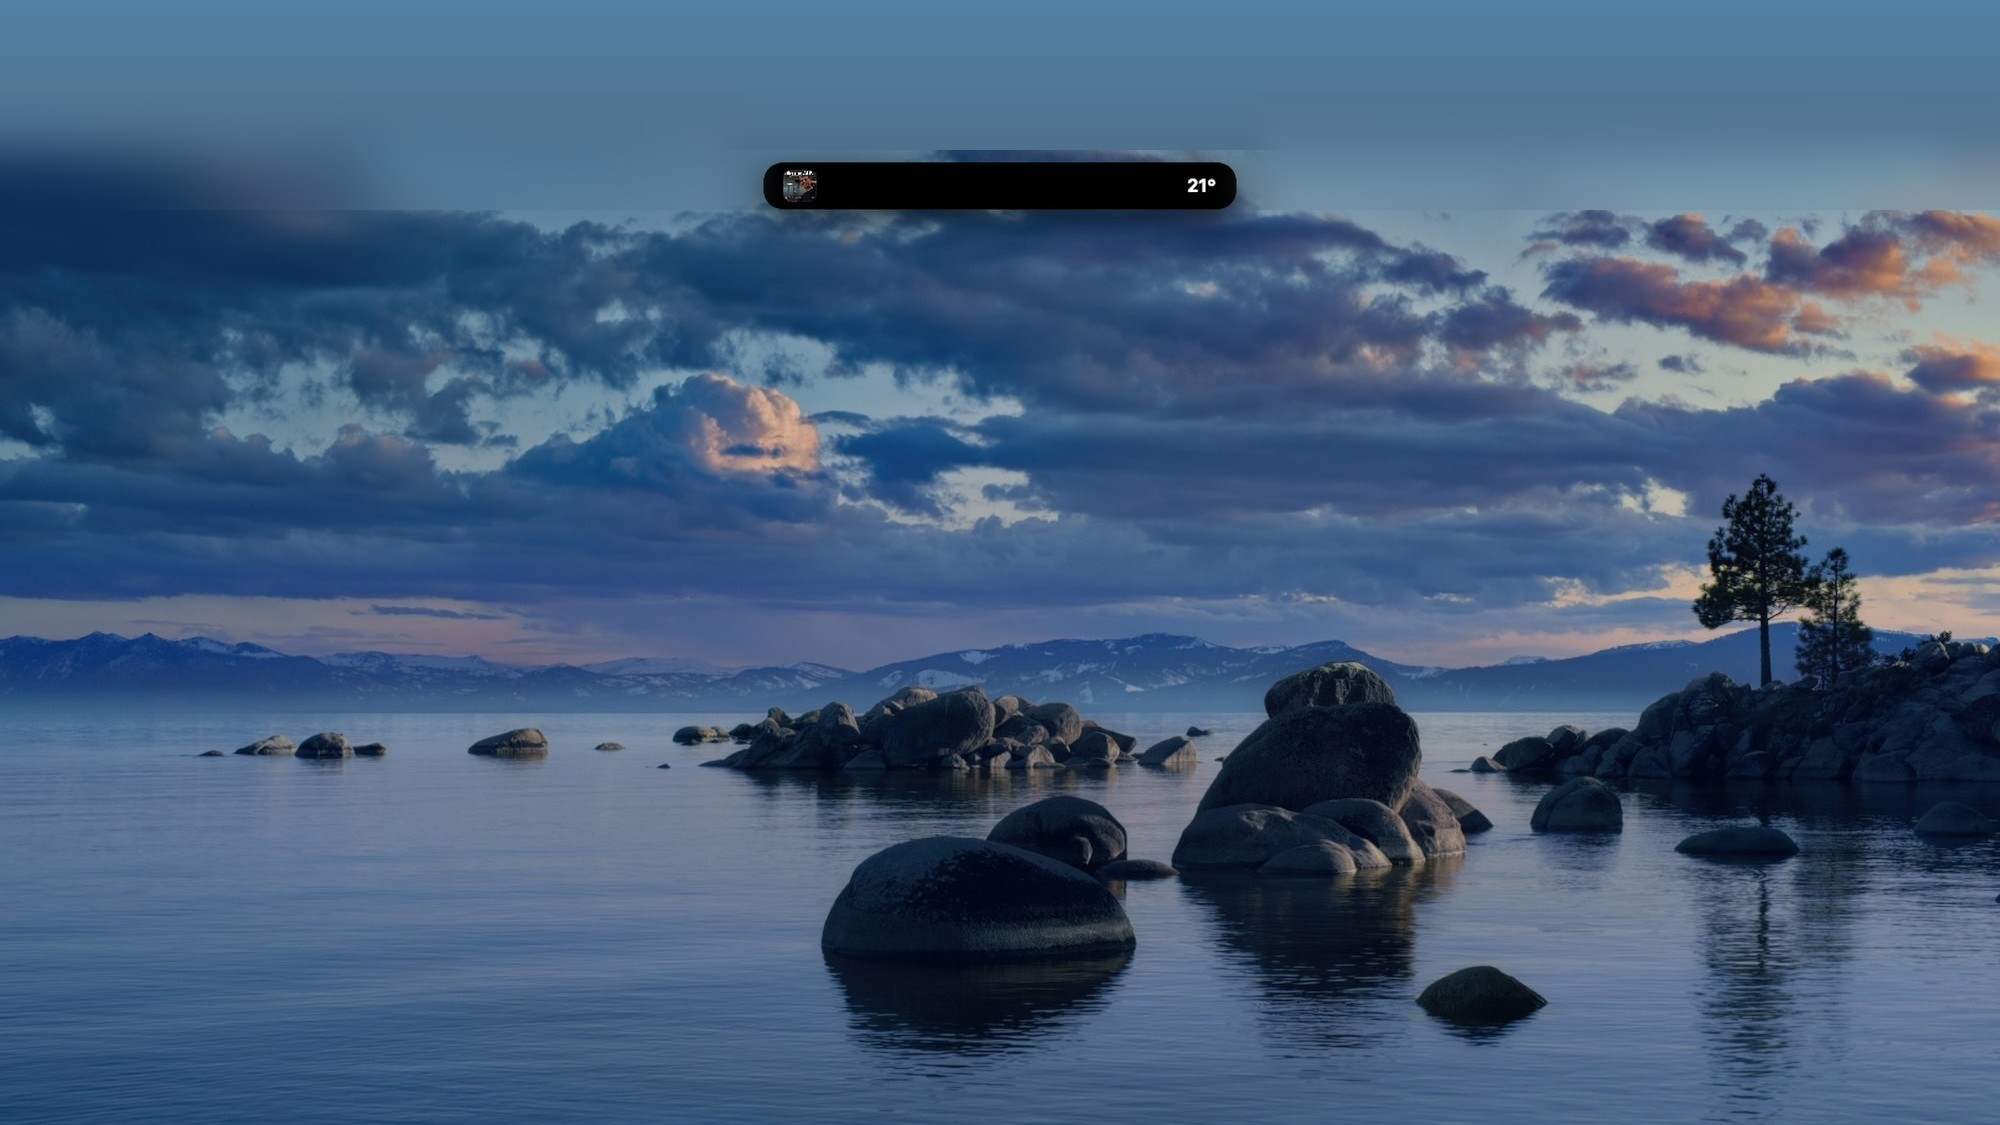
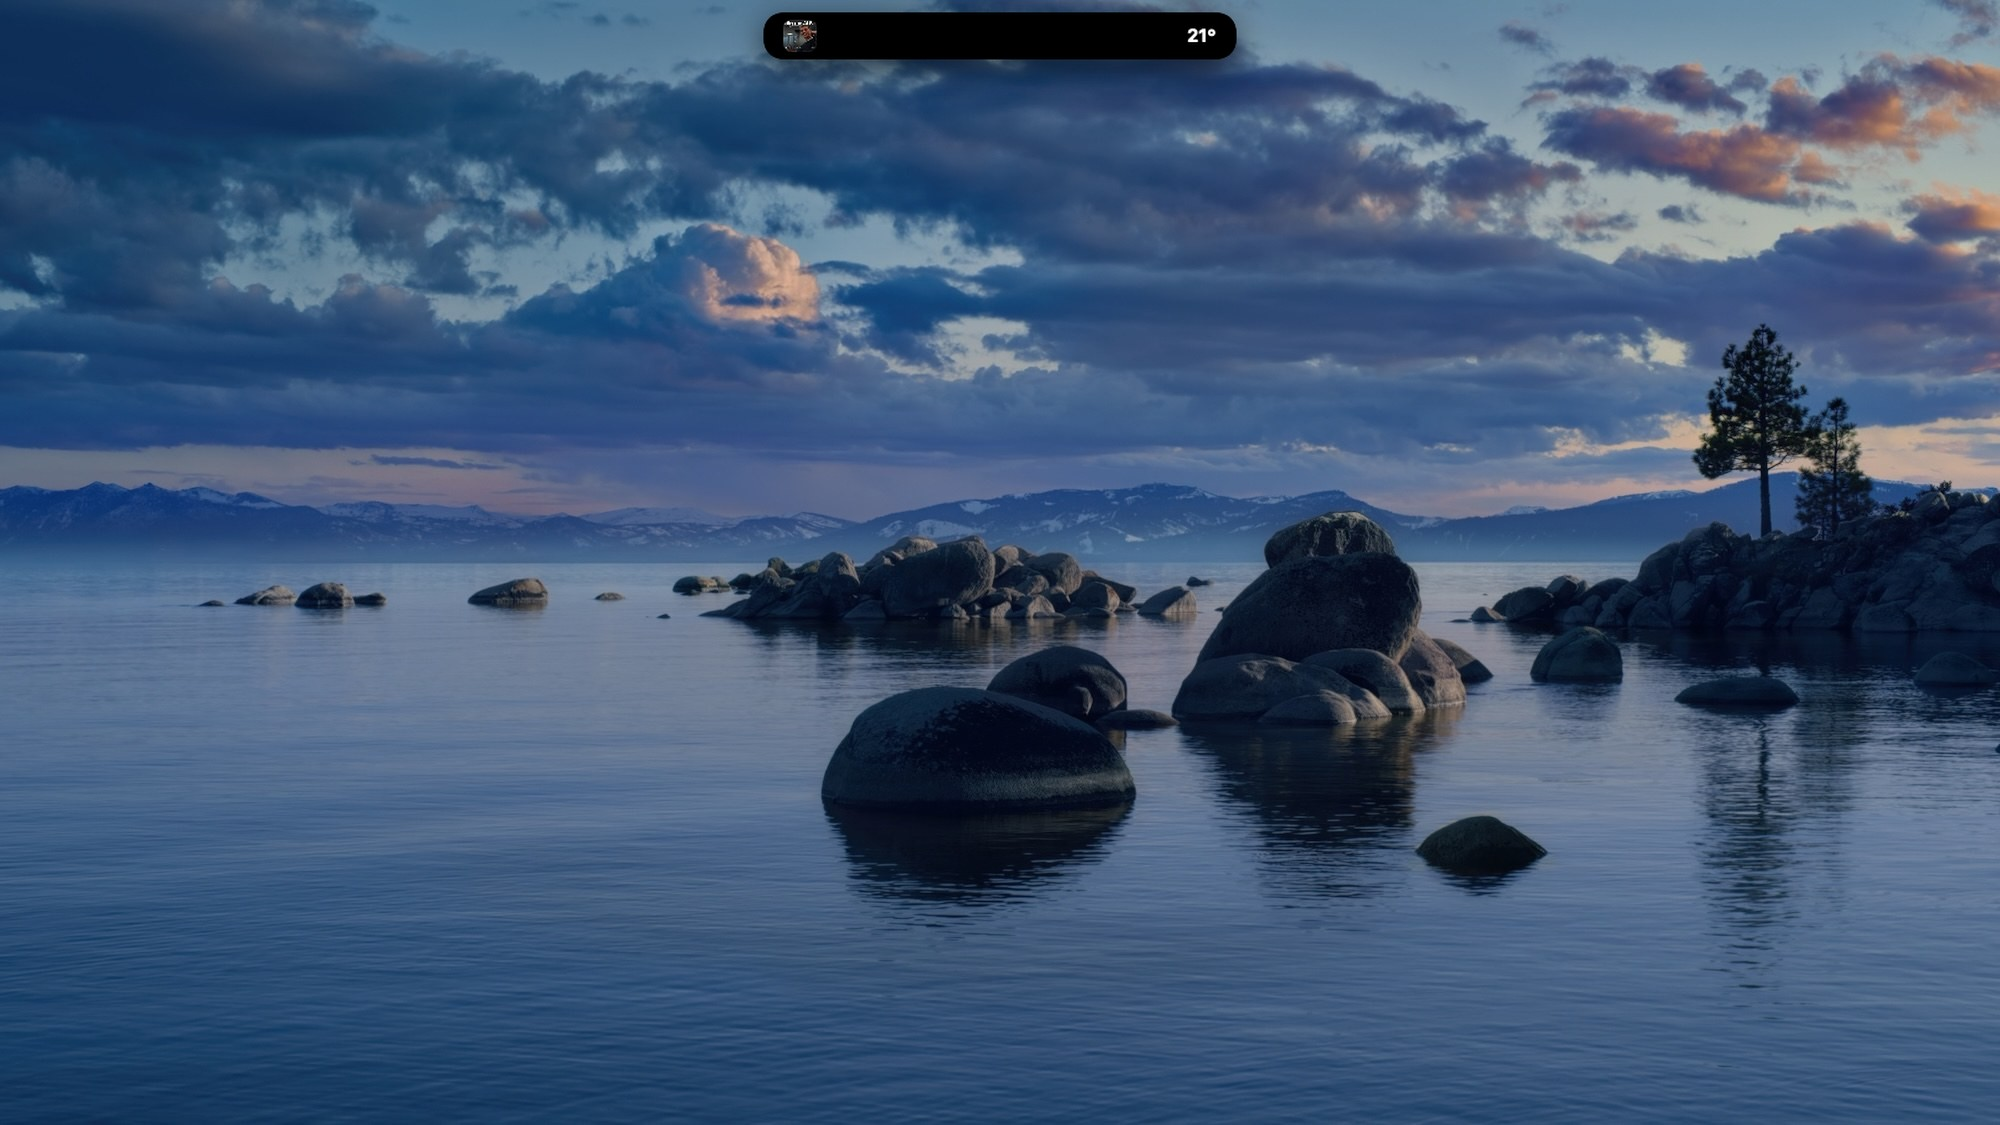
Revert "notch: add sky headroom so the panel is no longer cut off at the top"
This reverts commit 8a274f7f51afcb36c233b29894c2adee98c9554d.

diff --git a/notch/index.html b/notch/index.html
@@ -34,7 +34,7 @@
   <link rel="apple-touch-icon" href="/assets/apple-touch-icon.png?v=4" />
   <link rel="stylesheet" href="/styles.css" />
   <script type="application/ld+json">
-  {"@context":"https://schema.org","@type":"SoftwareApplication","isPartOf":{"@id":"https://buildtoberemembered.com/#website"},"name":"All in a notch","operatingSystem":"macOS 26+","softwareVersion":"1.26.09","applicationCategory":"UtilitiesApplication","description":"A macOS app that lives over the notch and expands into a Liquid Glass panel with media controls, a nearby-places map, a moodboard, Claude chat, AirDrop, a websites shelf and a scratch note.","url":"https://buildtoberemembered.com/notch/","image":"https://buildtoberemembered.com/assets/og/notch.jpg","screenshot":["https://buildtoberemembered.com/assets/work/notch-media.jpg?v=2","https://buildtoberemembered.com/assets/work/notch-map.jpg?v=2","https://buildtoberemembered.com/assets/work/notch-mood.jpg?v=2","https://buildtoberemembered.com/assets/work/notch-chat.jpg?v=2"],"featureList":["Now playing from Apple Music or Spotify, with a scrubber and controls","A map of what's nearby — coffee, food, transit and more","A moodboard for images, links and notes","Chat with Claude, right in the notch","AirDrop and a drag-and-drop file shelf","A quick-launch shelf for your favourite websites","An autosaving scratch note","Real Liquid Glass — expands on hover, hides in the notch"],"downloadUrl":"https://github.com/02-alt/btbr-website/releases/download/notch/NotchGlass-1.26.09.4.dmg","installUrl":"https://github.com/02-alt/btbr-website/releases/download/notch/NotchGlass-1.26.09.4.dmg","fileSize":"14.3 MB","datePublished":"2026","inLanguage":"en","offers":{"@type":"Offer","price":"0","priceCurrency":"USD","availability":"https://schema.org/InStock"},"author":{"@type":"Person","name":"Isaac","url":"https://buildtoberemembered.com/about/"},"publisher":{"@id":"https://buildtoberemembered.com/#org","@type":"Organization","name":"builtoberemembered","url":"https://buildtoberemembered.com/","logo":"https://buildtoberemembered.com/assets/apple-touch-icon.png","sameAs":["https://buymeacoffee.com/builttoberemembered"]}}
+  {"@context":"https://schema.org","@type":"SoftwareApplication","isPartOf":{"@id":"https://buildtoberemembered.com/#website"},"name":"All in a notch","operatingSystem":"macOS 26+","softwareVersion":"1.26.09","applicationCategory":"UtilitiesApplication","description":"A macOS app that lives over the notch and expands into a Liquid Glass panel with media controls, a nearby-places map, a moodboard, Claude chat, AirDrop, a websites shelf and a scratch note.","url":"https://buildtoberemembered.com/notch/","image":"https://buildtoberemembered.com/assets/og/notch.jpg","screenshot":["https://buildtoberemembered.com/assets/work/notch-media.jpg","https://buildtoberemembered.com/assets/work/notch-map.jpg","https://buildtoberemembered.com/assets/work/notch-mood.jpg","https://buildtoberemembered.com/assets/work/notch-chat.jpg"],"featureList":["Now playing from Apple Music or Spotify, with a scrubber and controls","A map of what's nearby — coffee, food, transit and more","A moodboard for images, links and notes","Chat with Claude, right in the notch","AirDrop and a drag-and-drop file shelf","A quick-launch shelf for your favourite websites","An autosaving scratch note","Real Liquid Glass — expands on hover, hides in the notch"],"downloadUrl":"https://github.com/02-alt/btbr-website/releases/download/notch/NotchGlass-1.26.09.4.dmg","installUrl":"https://github.com/02-alt/btbr-website/releases/download/notch/NotchGlass-1.26.09.4.dmg","fileSize":"14.3 MB","datePublished":"2026","inLanguage":"en","offers":{"@type":"Offer","price":"0","priceCurrency":"USD","availability":"https://schema.org/InStock"},"author":{"@type":"Person","name":"Isaac","url":"https://buildtoberemembered.com/about/"},"publisher":{"@id":"https://buildtoberemembered.com/#org","@type":"Organization","name":"builtoberemembered","url":"https://buildtoberemembered.com/","logo":"https://buildtoberemembered.com/assets/apple-touch-icon.png","sameAs":["https://buymeacoffee.com/builttoberemembered"]}}
   </script>
   <script type="application/ld+json">
   {"@context":"https://schema.org","@type":"FAQPage","mainEntity":[{"@type":"Question","name":"What is All in a notch?","acceptedAnswer":{"@type":"Answer","text":"A macOS app that lives over your notch as a small pill and expands, on hover, into a Liquid Glass panel that holds everything in one place — media controls, a nearby-places map, a moodboard, Claude chat, AirDrop, a websites shelf and a scratch note."}},{"@type":"Question","name":"What can it do?","acceptedAnswer":{"@type":"Answer","text":"Control now-playing music from Apple Music or Spotify; see what's nearby on a map (coffee, food, transit and more); keep a moodboard of images, links and notes; chat with Claude; AirDrop and park dropped files on a shelf; quick-launch favourite websites; and jot an autosaving note."}},{"@type":"Question","name":"How do I open it?","acceptedAnswer":{"@type":"Answer","text":"Hover the pill over your notch and it expands into the glass panel; move the pointer away and it collapses back into the notch."}},{"@type":"Question","name":"Do I need a Mac with a notch?","acceptedAnswer":{"@type":"Answer","text":"It's made for the notch, but on a display without one it simply shows as a pill at the top of the screen. It auto-positions on whichever display has the notch."}},{"@type":"Question","name":"Does it need any permissions?","acceptedAnswer":{"@type":"Answer","text":"The media tab controls Music or Spotify through AppleScript, so macOS asks for Automation permission the first time — grant it under System Settings → Privacy & Security → Automation."}},{"@type":"Question","name":"What do I need to run it?","acceptedAnswer":{"@type":"Answer","text":"A Mac running macOS 26 (Tahoe) or later. If macOS says it can't verify the developer on first launch, right-click the app and choose Open."}},{"@type":"Question","name":"What's new in this version?","acceptedAnswer":{"@type":"Answer","text":"Two new tabs, podcasts in the notch, and a smoother finish. A Space tab predicts when the ISS will pass over you and shows it live on a world map — ground track, speed, altitude and whether it's sunlit. A Twitch tab lets you edit your stream's title and category and follow live chat, replying from the notch with @-mentions highlighted. The Media tab now reads and controls Reed's podcast player — episode, show, artwork, chapters and transport — alongside Music and Spotify, appearing automatically once Reed is installed. And a smoother finish: numbers roll like an odometer, album art glides between the closed notch and the open player, the cover no longer flickers between apps, and a batch of stability fixes."}},{"@type":"Question","name":"What version is this?","acceptedAnswer":{"@type":"Answer","text":"1.26.09. Updates are dated — numbered 1.YY.MM (year then month), so this build is from September 2026. That way you can always tell how recent your copy is."}},{"@type":"Question","name":"How much does it cost?","acceptedAnswer":{"@type":"Answer","text":"Free."}}]}
@@ -69,11 +69,11 @@
       </div>
 
       <div class="shots">
-        <figure class="shot"><img src="/assets/work/notch-media.jpg?v=2" width="2000" height="1125" loading="eager" fetchpriority="high" decoding="async" alt="All in a notch expanded from the notch showing the Media tab — album art, track, scrubber and playback controls" /><figcaption>Now playing, a hover away from the notch</figcaption></figure>
-        <figure class="shot"><img src="/assets/work/notch-map.jpg?v=2" width="2000" height="1125" loading="lazy" decoding="async" alt="All in a notch Map tab showing a city map with nearby coffee, food, gas, bars, grocery and transit, plus recent places" /><figcaption>See what's nearby — coffee, food, transit and more</figcaption></figure>
-        <figure class="shot"><img src="/assets/work/notch-island.jpg?v=2" width="2000" height="1125" loading="lazy" decoding="async" alt="All in a notch in Dynamic Island mode — the closed notch as a black pill at the top of the desktop showing album art and the current temperature, 21 degrees" /><figcaption>Dynamic Island mode — glanceable, right from the notch</figcaption></figure>
-        <figure class="shot"><img src="/assets/work/notch-mood.jpg?v=2" width="2000" height="1125" loading="lazy" decoding="async" alt="All in a notch Mood tab — a moodboard of images, an are.na card and a note" /><figcaption>A moodboard for images, links and notes</figcaption></figure>
-        <figure class="shot"><img src="/assets/work/notch-chat.jpg?v=2" width="2000" height="1125" loading="lazy" decoding="async" alt="All in a notch Chat tab — message Claude directly from the notch panel" /><figcaption>Chat with Claude, right in the notch</figcaption></figure>
+        <figure class="shot"><img src="/assets/work/notch-media.jpg" width="2000" height="1125" loading="eager" fetchpriority="high" decoding="async" alt="All in a notch expanded from the notch showing the Media tab — album art, track, scrubber and playback controls" /><figcaption>Now playing, a hover away from the notch</figcaption></figure>
+        <figure class="shot"><img src="/assets/work/notch-map.jpg" width="2000" height="1125" loading="lazy" decoding="async" alt="All in a notch Map tab showing a city map with nearby coffee, food, gas, bars, grocery and transit, plus recent places" /><figcaption>See what's nearby — coffee, food, transit and more</figcaption></figure>
+        <figure class="shot"><img src="/assets/work/notch-island.jpg" width="2000" height="1125" loading="lazy" decoding="async" alt="All in a notch in Dynamic Island mode — the closed notch as a black pill at the top of the desktop showing album art and the current temperature, 21 degrees" /><figcaption>Dynamic Island mode — glanceable, right from the notch</figcaption></figure>
+        <figure class="shot"><img src="/assets/work/notch-mood.jpg" width="2000" height="1125" loading="lazy" decoding="async" alt="All in a notch Mood tab — a moodboard of images, an are.na card and a note" /><figcaption>A moodboard for images, links and notes</figcaption></figure>
+        <figure class="shot"><img src="/assets/work/notch-chat.jpg" width="2000" height="1125" loading="lazy" decoding="async" alt="All in a notch Chat tab — message Claude directly from the notch panel" /><figcaption>Chat with Claude, right in the notch</figcaption></figure>
       </div>
     </main>
 
